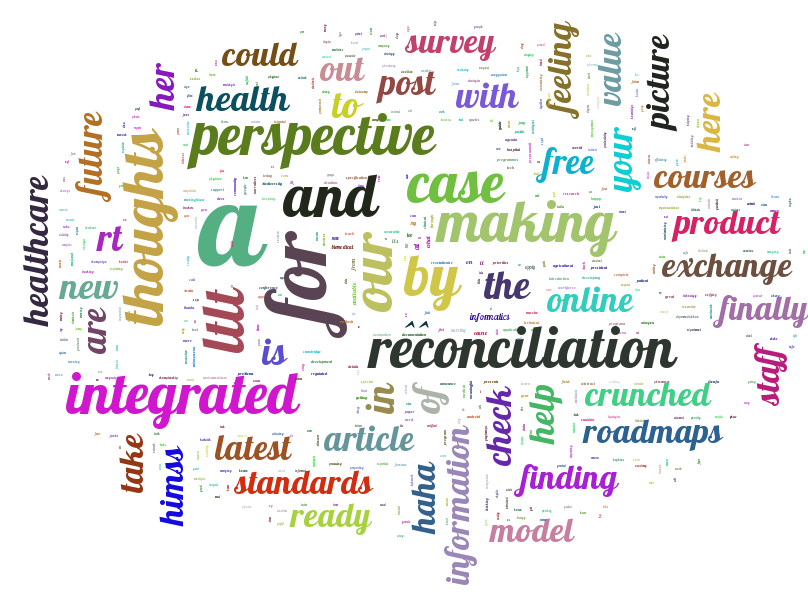
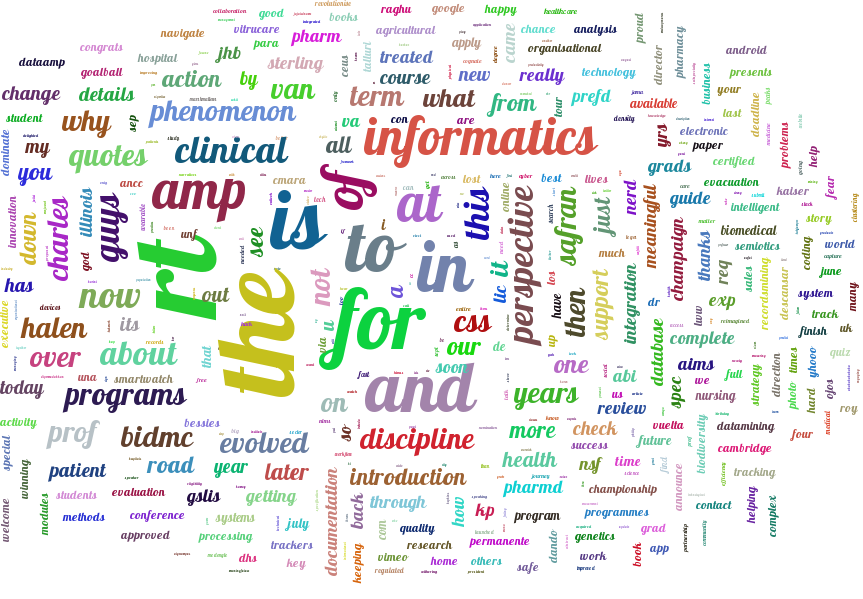
Update twitter template.

diff --git a/hw5/FirstName-LastName-twittercloud.py b/hw5/FirstName-LastName-twittercloud.py
@@ -8,6 +8,8 @@ from __future__ import print_function
 import re
 import twitter
 import pandas as pd
+import os
+import pickle
 from pytagcloud import create_tag_image, make_tags
 
 def search_twitter(twitter_api, q, search_size = 100, stop_count = 1000):
@@ -38,7 +40,7 @@ def search_twitter(twitter_api, q, search_size = 100, stop_count = 1000):
         
         next_results = twitter_api.search.tweets(**kwargs)
         statuses += next_results['statuses']
-        print(len(statuses))
+        print(len(statuses), 'tweets fetched...')
         
     return statuses
 
@@ -58,7 +60,7 @@ def clean_statuses(statuses):
     clean_tweets = []
 
     # your code goes here
-
+    
     return clean_tweets
 
 def get_counts(words):
@@ -77,13 +79,14 @@ def get_counts(words):
     
     return counts
 
+
 def main():
     # XXX: Go to http://dev.twitter.com/apps/new to create an app and get values
     # for these credentials, which you'll need to provide in place of these
     # empty string values that are defined as placeholders.
     # See https://dev.twitter.com/docs/auth/oauth for more information 
     # on Twitter's OAuth implementation.
-    CONSUMER_KEY = '' 
+    CONSUMER_KEY = ''
     CONSUMER_SECRET = ''
     OAUTH_TOKEN = ''
     OAUTH_TOKEN_SECRET = ''
@@ -96,13 +99,22 @@ def main():
     # Search query, try your own.
     q = '#informatics'
 
-    st = search_twitter(twitter_api, q)
-    cs = clean_statuses(st)
-    wc = get_counts(cs)
+    # calling search_twitter too often will lock you out for 1 hour.
+    # we will call search twitter once and save the result in a file.
+    if not os.path.isfile('{0}.p'.format(q)):
+        results = search_twitter(twitter_api, q)
+        pickle.dump(results, open('{0}.p'.format(q), 'wb'))
+
+    # load saved pickle file
+    results = pickle.load(open('{0}.p'.format(q), 'rb'))
+    # clean the tweets and extract the words we want
+    clean_tweets = clean_statuses(results)
+    # calculate the frequency of each word
+    word_count = get_counts(clean_tweets)
 
     # use PyTagCloud to create a tag cloud
+    tags  = make_tags(word_count, maxsize = 120)
     # the image is store in 'cloud.png'
-    tags  = make_tags(wc, maxsize = 120)
     create_tag_image(tags, 'cloud.png', size = (900, 600), fontname = 'Lobster')
     
 if __name__ == '__main__':
